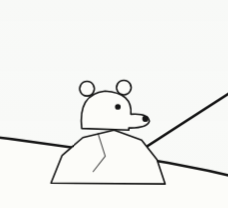
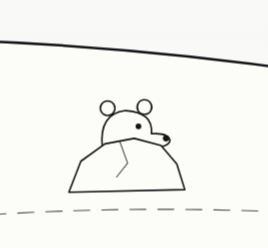
Front page: the sun and moon cross the whole frame, stars after dark and no gulls, glowing lamps on planes, ferry, train and car, brake lights at any hour, no lighthouse light by day, a glow on the dome and the crown, slower clouds, the ferry from the far left, the bear lower and shyer, the campanil

diff --git a/docs/mockup/index.html b/docs/mockup/index.html
@@ -72,8 +72,11 @@ header.top{display:flex;align-items:baseline;justify-content:space-between;gap:1
 @keyframes nav{0%{opacity:1}55%{opacity:.12}}
 .strobe{opacity:0}.dusk .strobe,.night .strobe{animation:strobe 1.6s steps(1) infinite}
 @keyframes strobe{0%{opacity:1}8%{opacity:0}}
-.carlight{opacity:0;transition:opacity .3s}.dusk .carlight,.night .carlight{opacity:.8}
-.tail{opacity:0;transition:opacity .2s}.dusk .tail,.night .tail{opacity:.5}.braking .tail{opacity:1}
+.carlight{opacity:0;transition:opacity .3s}.night .carlight{opacity:1}
+.lamp{filter:url(#lamp)}.beamcone{filter:url(#lampwide)}
+.tail{opacity:0;transition:opacity .2s}.night .tail{opacity:.45}.braking .tail{opacity:1}.night .braking .tail{fill:#FF2A1F !important;filter:url(#lamp)}
+.star{animation:twinkle 8s ease-in-out infinite;opacity:.85}
+@keyframes twinkle{0%,70%,100%{opacity:.85}78%{opacity:.15}86%{opacity:.9}}
 .water{animation:swell 6s ease-in-out infinite alternate}
 .water.b{animation-name:swellb;animation-duration:8.5s;animation-delay:-3s}
 .water.c{animation-name:swellc;animation-duration:11s;animation-delay:-6s}
@@ -98,7 +101,7 @@ header.top{display:flex;align-items:baseline;justify-content:space-between;gap:1
 /* while the view turns, the fog lifts and comes back once it settles: it is most of what the turn has to redraw */
 .stage.fogout .fog{opacity:0 !important}.stage.turning .fog{display:none}
 .beam{transition:opacity .7s}.beam.moving{opacity:0;transition:none}
-#beamlight{mix-blend-mode:var(--blend,multiply);filter:url(#beamblur);opacity:.35;transition:opacity 1.2s}.dusk #beamlight{opacity:.6}.night #beamlight{opacity:.85}
+#beamlight{mix-blend-mode:var(--blend,multiply);filter:url(#beamblur);opacity:0;transition:opacity 1.2s}.dusk #beamlight{opacity:.6}.night #beamlight{opacity:.85}
 .stage:not([data-view="home"]) .fg .hot,.stage[data-view="valley"] .beam{display:none}
 .stage:not([data-view="home"]) .beam path{opacity:.4}
 .halo{fill:var(--gold);stroke:none;opacity:0;transition:opacity .6s}
@@ -225,6 +228,8 @@ header.top{display:flex;align-items:baseline;justify-content:space-between;gap:1
           <feGaussianBlur in="d" stdDeviation="0.7"/>
         </filter>
         <filter id="glow" x="-100%" y="-100%" width="300%" height="300%"><feGaussianBlur stdDeviation="6"/></filter>
+        <filter id="lamp" x="-400%" y="-400%" width="900%" height="900%"><feGaussianBlur in="SourceGraphic" stdDeviation="2.2" result="b"/><feMerge><feMergeNode in="b"/><feMergeNode in="b"/><feMergeNode in="SourceGraphic"/></feMerge></filter>
+        <filter id="lampwide" x="-60%" y="-60%" width="220%" height="220%"><feGaussianBlur stdDeviation="3.5"/></filter>
         <linearGradient id="skygrad" x1="0" y1="0" x2="0" y2="1"><stop id="sky-top" offset="0" stop-color="#BFD3E6" stop-opacity="0"/><stop id="sky-low" offset="1" stop-color="#F2B48C" stop-opacity="0"/></linearGradient>
         <mask id="fogmask"><rect x="0" y="0" width="1600" height="700" fill="white"/><polygon id="cone" points="0,0" fill="black"/></mask>
         <mask id="binoc"><rect x="0" y="0" width="1600" height="700" fill="black"/><circle cx="700" cy="290" r="210" fill="white"/><circle cx="900" cy="290" r="210" fill="white"/></mask>
@@ -456,12 +461,12 @@ header.top{display:flex;align-items:baseline;justify-content:space-between;gap:1
   el("path", {d:"M 0 380 L 0 262 C 60 252, 150 256, 230 270 C 290 281, 332 304, 366 330 C 376 338, 384 343, 394 346 C 380 360, 330 372, 300 380 Z", style:"fill:var(--paper);stroke:none"}, headland);
   el("path", {d:"M 0 262 C 60 252, 150 256, 230 270 C 290 281, 332 304, 366 330 C 376 338, 384 343, 394 346"}, headland);
   { const cp = el("clipPath", {id:"behind-rock", clipPathUnits:"userSpaceOnUse"}, el("defs", {}, $("#L-water"))); el("rect", {x:-14, y:-40, width:28, height:42}, cp); }
-  const bear = el("g", {transform:"translate(214,272) scale(1.4)", "clip-path":"url(#behind-rock)"}, headland), bearHead = el("g", {transform:"translate(0,8)", id:"bearhead"}, bear);
+  const bear = el("g", {transform:"translate(154,294) scale(1.4)", "clip-path":"url(#behind-rock)"}, headland), bearHead = el("g", {transform:"translate(0,8)", id:"bearhead"}, bear);
   el("path", {d:"M -3.2 -5 a 1.4 1.4 0 1 1 0.1 0 M 3.2 -5 a 1.4 1.4 0 1 1 0.1 0", class:"thin", style:"fill:var(--paper)"}, bearHead);
   el("path", {d:"M -4.2 1 Q -4.8 -5.4 0 -5.8 Q 4.8 -5.4 4.4 -1.2 Q 7.4 -1.4 7.6 0.2 Q 7.2 1.6 4 1.4 L 4 1.8 Z", class:"thin", style:"fill:var(--paper)"}, bearHead);
   el("circle", {cx:2, cy:-2.6, r:.55, class:"solid"}, bearHead); el("circle", {cx:7.3, cy:-0.3, r:.6, class:"solid"}, bearHead);
-  el("path", {d:"M 199 276 L 202 268 L 208 263 L 216 261 L 223 263.5 L 227 269 L 229 276 Z", class:"thin", style:"fill:var(--paper)"}, headland);
-  el("path", {d:"M 212 262 L 214 268 L 211 272", class:"hair"}, headland);
+  el("path", {d:"M 139 298 L 142 290 L 148 285 L 156 283 L 163 285.5 L 167 291 L 169 298 Z", class:"thin", style:"fill:var(--paper)"}, headland);
+  el("path", {d:"M 152 284 L 154 290 L 151 294", class:"hair"}, headland);
   el("path", {d:"M 394 346 C 370 352, 340 356, 300 360", class:"hair"}, headland);
   el("path", {d:"M 20 318 C 100 300, 190 298, 280 312", class:"hair", "stroke-dasharray":"8 6"}, headland);
   fog(fogG, [[330, 5, 6],[400, 6, 7],[470, 5, 5]], 11);
@@ -561,6 +566,8 @@ header.top{display:flex;align-items:baseline;justify-content:space-between;gap:1
     tint(L, domeHalf(hv, gy-44, 44, 24, -1), ca).classList.add("nightlight");
     tint(L, domeHalf(hv, gy-44, 44, 24, 1), cb).classList.add("nightlight");
     // the crown: a soft wash and a grid of blocks that breathe out of step
+    el("ellipse", {cx:hv, cy:gy-54, rx:30, ry:20, class:"nightlight", filter:"url(#glow)", style:`fill:${ca};stroke:none;opacity:.5`}, L);
+    el("ellipse", {cx:ox+1057, cy:baseY-276, rx:22, ry:16, class:"nightlight", filter:"url(#glow)", style:"fill:#9FB7C9;stroke:none"}, L);
     tintRect(L, ox+1041, baseY-290, 32, 30, "#9FB7C9").classList.add("nightlight");
     const grid = el("g", {class:"nightlight"}, L); const r = rng(59);
     for (let i=0;i<4;i++) for (let j=0;j<5;j++){ const b = el("rect", {x:ox+1044+i*7, y:baseY-286+j*6, width:5, height:4, class:"crownblock", style:`fill:#9FB7C9;stroke:none`}, grid); b.style.animationDelay = (-r()*9).toFixed(1) + "s"; }
@@ -589,7 +596,7 @@ header.top{display:flex;align-items:baseline;justify-content:space-between;gap:1
     el("path", {d:"M-14 -134 L 14 -134 M 0 -142 L 0 -126", class:"thin"}, hood);                      // the slot
     el("path", {d:"M-64 -118 L 64 -118 L 64 -78 L -64 -78 Z", class:"thin"}, hood);                  // the plate
     const t = el("text", {x:0, y:-88, "text-anchor":"middle", class:"cap"}, hood); t.textContent = "25.5¢";
-    const t2 = el("text", {x:0, y:-46, "text-anchor":"middle"}, hood); t2.textContent = "PER MILLION TOKENS · SOURCES AND METHOD";
+    const t2 = el("text", {x:0, y:-46, "text-anchor":"middle"}, hood); t2.textContent = "PER MILLION TOKENS";
     el("circle", {cx:-236, cy:-112, r:20}, hood); el("path", {d:"M-236 -132 L -236 -92 M-256 -112 L -216 -112", class:"hair"}, hood);
     const k = el("text", {x:-236, y:-78, "text-anchor":"middle"}, hood); k.textContent = "FOCUS";
     const hot = el("g", {class:"hot", id:"hot-coin", tabindex:"0", role:"button", "aria-label":"Insert a coin for sources and method"}, hood);
@@ -605,18 +612,19 @@ header.top{display:flex;align-items:baseline;justify-content:space-between;gap:1
     const L = el("g", {"clip-path":"url(#eye-l)"}, g), R = el("g", {"clip-path":"url(#eye-r)"}, g);
     // left: the hills behind, the campus on its slope, its campanile over the trees, the bay in front
     // the hills behind: a ridge crowned with a ragged line of trees, a raised stand of them with a mast in it, then a sharp drop to the lower ridge
-    { const rr = rng(83);
+    { const rr = rng(83), Lm = el("g", {transform:"translate(1300,0) scale(-1,1)"}, L);   // mirrored: the crest and its trees to the right, the cut to the left
       let d = "M 480 400 L 480 304 C 500 300, 516 296, 530 292", x = 530;
       const crown = u => u < 668 ? 292 - (u-530)/138*54 : 238 + (u-668)*0.06;             // the canopy's line: rising to its crest, then nearly level
       while (x < 700){ const w = 5 + rr()*13, top = Math.min(crown(x), crown(x+w)) - 2 - rr()*7; d += ` Q ${(x+w*.5).toFixed(1)} ${top.toFixed(1)} ${(x+w).toFixed(1)} ${(crown(x+w) + rr()*2).toFixed(1)}`; x += w; }
       d += ` Q ${(x+3).toFixed(1)} 250 ${(x+2).toFixed(1)} 262 Q ${(x+4).toFixed(1)} 270 ${(x+9).toFixed(1)} 273`; x += 9;   // the steep cut where the trees end
       while (x < 820){ const w = 5 + rr()*9, y = 273 + (x-710)*0.05; d += ` Q ${(x+w/2).toFixed(1)} ${(y - 2 - rr()*4).toFixed(1)} ${(x+w).toFixed(1)} ${y.toFixed(1)}`; x += w; }
-      el("path", {d: d + " L 820 400 Z", class:"thin", style:"fill:var(--paper)"}, L);
+      el("path", {d: d + " L 820 400 Z", class:"thin", style:"fill:var(--paper)"}, Lm);
       // the grass below the trees: the hill's own shoulder, and a pale fold lower down
-      el("path", {d:"M 500 322 C 570 306, 640 298, 706 296 C 750 296, 790 300, 820 304", class:"hair"}, L);
-      el("path", {d:"M 540 342 C 600 332, 670 330, 740 336", class:"hair"}, L);
+      el("path", {d:"M 500 322 C 570 306, 640 298, 706 296 C 750 296, 790 300, 820 304", class:"hair"}, Lm);
+      el("path", {d:"M 540 342 C 600 332, 670 330, 740 336", class:"hair"}, Lm);
     }
     box(L, 616, 352, 56, 42, true); box(L, 706, 360, 70, 34, true); box(L, 530, 370, 30, 24, false);
+    el("path", {d:"M 579 394 L 579 244 L 576 244 L 590 222 L 604 244 L 601 244 L 601 394 Z", style:"fill:var(--paper);stroke:none"}, L);
     campanile(L, 590, 394, 150);
     tintRect(L, 579, 245, 22, 149, "var(--cream)");
     for (const x of [506, 684, 782]) el("path", {d:`M${x} 396 q 0 -16 10 -19 q 10 3 10 19 z`, class:"thin", style:"fill:var(--paper)"}, L);
@@ -627,7 +635,8 @@ header.top{display:flex;align-items:baseline;justify-content:space-between;gap:1
     { const train = el("g", {class:"bart"}, L);
       for (let i=0;i<3;i++){ const x = i*58, nose = i === 2;
         el("path", {d: nose ? `M ${x} 417 L ${x} 405 L ${x+42} 405 Q ${x+54} 406 ${x+56} 417 Z` : `M ${x} 417 L ${x} 405 L ${x+56} 405 L ${x+56} 417 Z`, class:"thin", style:"fill:var(--paper)"}, train);
-        for (let j=0; j<5; j++) el("path", {d:`M ${x+5+j*9} 410 l 5 0`, class:"hair"}, train); } }
+        for (let j=0; j<5; j++){ el("path", {d:`M ${x+5+j*9} 410 l 5 0`, class:"hair"}, train); el("rect", {x:x+5+j*9, y:408.5, width:5, height:3, class:"carlight", style:"fill:#F8DC8C;stroke:none"}, train); }
+        if (nose){ el("path", {d:`M ${x+56} 413 L ${x+86} 407 L ${x+86} 419 Z`, class:"carlight beamcone", style:"fill:#F6DE92;stroke:none;fill-opacity:.5"}, train); el("circle", {cx:x+55, cy:413, r:1.6, class:"carlight lamp", style:"fill:#FFF6D2;stroke:none"}, train); } } }
     for (let i=0;i<2;i++){ const y = 452 + i*14; el("path", {d:`M ${510 + i*10} ${y} q 40 -3 80 0 M ${660 - i*14} ${y+5} q 50 -3 100 0`, class:"hair"}, L); }
     // right: the foothills and the dish on them, the tower over the arcaded quad, palms along the front
     el("path", {d:"M 780 262 C 850 236, 930 230, 1000 244 C 1050 254, 1090 256, 1130 262 L 1130 400 L 780 400 Z", class:"thin", style:"fill:var(--paper)"}, R);
@@ -893,7 +902,8 @@ header.top{display:flex;align-items:baseline;justify-content:space-between;gap:1
   function moonPhase(d){ const age = ((d.getTime() - Date.UTC(2000,0,6,18,14))/86400e3) % 29.530588; return (age < 0 ? age + 29.530588 : age)/29.530588; }
   // the panorama's headings: the left edge looks a little west of south, the right edge a little north of east
   // the frame looks from a little north of east round to the south-east: the sun rises over the Gate and the bay
-  function xOfAzimuth(az){ return (az - 50)/110 * W; }
+  // drawn, not surveyed: the sky is widened so the whole day and night cross the frame, east at the left edge, west at the right
+  function xOfAzimuth(az){ const a = ((az % 360) + 360) % 360; return (Math.max(50, Math.min(310, a)) - 50)/260 * W; }
   function yOfAltitude(alt){ return 340 - Math.max(-12, Math.min(70, alt))*4.6; }
   const HEADING = { home:105, city:125, bridge:100, valley:150 };
 
@@ -919,7 +929,7 @@ header.top{display:flex;align-items:baseline;justify-content:space-between;gap:1
     document.documentElement.style.setProperty("--dir", lateral < 0 ? "normal" : "reverse");
     document.documentElement.style.setProperty("--drift", Math.max(12, 160 / Math.max(Math.abs(lateral), 3)) + "s");
     // clouds cross the whole frame; their place is set by the clock, so redrawing the sky never moves them
-    const cross = 6*Math.max(60, 900 / Math.max(Math.abs(lateral), 3));
+    const cross = 20*Math.max(60, 900 / Math.max(Math.abs(lateral), 3));
     document.documentElement.style.setProperty("--cdrift", cross + "s");
     document.documentElement.style.setProperty("--rfall", (o.wind_kmh > 40 ? .7 : 1.1) + "s");
     document.querySelectorAll(".fog").forEach(g=>{ g.style.opacity = w.fog; });
@@ -929,7 +939,7 @@ header.top{display:flex;align-items:baseline;justify-content:space-between;gap:1
     for (let i=0;i<w.clouds*3;i++){ const y = 110 + r()*90, wd = 80 + r()*140, front = !w.streak && i % 4 === 3;
       const d = w.streak ? `M0 ${y} q ${wd*.5} -6 ${wd} 0 M20 ${y+8} q ${wd*.3} -4 ${wd*.6} 0` : `M0 ${y} q ${wd*.2} -18 ${wd*.45} -6 q ${wd*.15} -16 ${wd*.35} -2 q ${wd*.2} -4 ${wd*.2} 8 Z`;
       const c = el("path", {d, class:"cloud"}, front ? skyFront : sky); if (!w.streak) c.style.fill = "var(--paper)";
-      c.style.animationDelay = (-(((clock/cross) + r()) % 1)*cross).toFixed(1) + "s"; }
+      const own = cross*(.8 + r()*.4); c.style.animationDuration = own.toFixed(0) + "s"; c.style.animationDelay = (-(((clock/own) + r()) % 1)*own).toFixed(1) + "s"; }
     if (w.band) for (let y=96; y<140; y+=18) el("path", {d:`M 0 ${y} L ${W} ${y}`, class:"hair"}, sky);
     const rainN = [0, 220, 560][Math.max(w.rain, rainLevel)];
     if (rainN){ const slant = -lateral * 0.35; const g = el("g", {class:"rain"}, sky);
@@ -948,8 +958,12 @@ header.top{display:flex;align-items:baseline;justify-content:space-between;gap:1
       el("path", {d:`M ${x} ${y} m -22 0 a 22 22 0 1 0 44 0 a 22 22 0 1 0 -44 0 M ${x} ${y-34} l 0 -10 M ${x} ${y+34} l 0 10 M ${x-34} ${y} l -10 0 M ${x+34} ${y} l 10 0`, class:"thin sun"}, sky);
       if (key === "clear") tint($("#washes"), `M ${x-24} ${y} a 24 24 0 1 0 48 0 a 24 24 0 1 0 -48 0 Z`, "var(--gold)").classList.add("sunwash");
     }
+    if (night){ const rs = rng(Math.floor(Date.now()/86400e3)); const n = 4 + Math.floor(rs()*2);
+      for (let i=0;i<n;i++){ const x = 480 + rs()*1080, y = 40 + rs()*120, sz = 2 + rs()*1.6;
+        const st = el("path", {d:`M ${x} ${y-sz*2} L ${x+sz*.45} ${y-sz*.45} L ${x+sz*2} ${y} L ${x+sz*.45} ${y+sz*.45} L ${x} ${y+sz*2} L ${x-sz*.45} ${y+sz*.45} L ${x-sz*2} ${y} L ${x-sz*.45} ${y-sz*.45} Z`, class:"star", style:"fill:var(--ink);stroke:none"}, sky);
+        st.style.animationDuration = (5 + rs()*7).toFixed(1) + "s"; st.style.animationDelay = (-rs()*10).toFixed(1) + "s"; } }
     // the moon is drawn at its phase and where it is; on a night it has set, the drawing keeps it low over the horizon anyway
-    if ((moon.alt > 0 || night) && (night || sun.alt < 4) && w.fog < .9 && !w.band){
+    if ((moon.alt > 0 || night) && (night || sun.alt < 4) && w.fog < .9){
       const x = xOfAzimuth(moon.alt > 0 ? moon.az : (moon.az + 180) % 360), y = yOfAltitude(Math.max(moon.alt, night ? 16 : 0)), g = el("g", {class:"moon thin"}, sky);
       // the lit side: a lens between the limb and the terminator, phase 0 new, .5 full. After dark the lit
       // side is drawn in ink, which is white then; by day the disc is shaded and the lit side is left paper.
@@ -987,7 +1001,7 @@ header.top{display:flex;align-items:baseline;justify-content:space-between;gap:1
   function tween(ms, step, done){ const t0 = performance.now(); (function f(t){ const k = Math.min(1, (t - t0)/ms); step(k); if (k < 1) requestAnimationFrame(f); else if (done) done(); })(t0); }
   let taxiUntil = 0, bearUp = false;        // one robotaxi on the road at a time; one bear
   const EVENTS = {
-    gull(){ // one to three, each its own size, pace, bob and wingbeat
+    gull(){ if (stage.classList.contains("night")) return; // one to three, each its own size, pace, bob and wingbeat
       const n = 1 + Math.floor(Math.random()*Math.random()*3), ltr = Math.random() < .5, y0 = 130 + Math.random()*140, dur = 12000 + Math.random()*10000;
       for (let j=0;j<n;j++){ const g = el("g", {class:"thin"}, life), sc = .75 + Math.random()*.5, amp = 4 + Math.random()*7, fq = 6 + Math.random()*7, ph = Math.random()*6, dx = j*(28 + Math.random()*20), dy = (Math.random()-.5)*30;
         const flap = ["M-10 0 q 10 -9 20 0 M10 0 q 10 -9 20 0", "M-10 0 q 10 -2 20 0 M10 0 q 10 -2 20 0"];
@@ -1014,9 +1028,12 @@ header.top{display:flex;align-items:baseline;justify-content:space-between;gap:1
       gear.style.opacity = (kind === "landing" || kind === "takeoff") ? 1 : 0;
       // after dusk: red at the near wingtip, green showing past the fuselage, a white strobe on the fin
       const tip = kind === "jet" ? [-10, 5.5] : [-15, 8];
-      const red = el("circle", {cx:tip[0], cy:tip[1], r:2.4, class:"navlight", style:"fill:#E0443A;stroke:none"}, ship);
-      const green = el("circle", {cx:-6, cy:-3.6, r:2.2, class:"navlight", style:"fill:#46C271;stroke:none"}, ship);
-      const strobe = el("circle", {cx: kind === "jet" ? -24 : -35, cy: kind === "jet" ? -12 : -16, r:2, class:"strobe", style:"fill:#FFFFFF;stroke:none"}, ship);
+      const red = el("circle", {cx:tip[0], cy:tip[1], r:2.4, class:"navlight lamp", style:"fill:#FF3B30;stroke:none"}, ship);
+      const green = el("circle", {cx:-6, cy:-3.6, r:2.2, class:"navlight lamp", style:"fill:#4DDB7E;stroke:none"}, ship);
+      const strobe = el("circle", {cx: kind === "jet" ? -24 : -35, cy: kind === "jet" ? -12 : -16, r:2, class:"strobe lamp", style:"fill:#FFFFFF;stroke:none"}, ship);
+      const nose = kind === "jet" ? [24, 0] : [35.5, 0];
+      el("path", {d:`M ${nose[0]} ${nose[1]} L ${nose[0]+34} ${nose[1]-7} L ${nose[0]+34} ${nose[1]+9} Z`, class:"carlight beamcone", style:"fill:#F6E7B0;stroke:none;fill-opacity:.45"}, ship);
+      el("circle", {cx:nose[0], cy:nose[1], r:2, class:"carlight lamp", style:"fill:#FFF8DC;stroke:none"}, ship);
       const beat = (.9 + Math.random()*.9).toFixed(2) + "s"; red.style.setProperty("--nav", beat); green.style.setProperty("--nav", beat); green.style.animationDelay = "-" + (Math.random()).toFixed(2) + "s";
       // where it rises from, or sinks behind: the city, which sits differently in each view
       const behind = { home:[1010, 262], city:[780, 300], bridge:[1250, 300], valley:[800, 300] }[view];
@@ -1075,9 +1092,9 @@ header.top{display:flex;align-items:baseline;justify-content:space-between;gap:1
       const car = el("g", {transform:`scale(${S})`}, g);
       el("path", {d:"M-16 0 L 16 0 L 16 -8 L 10 -14 L -8 -14 L -16 -8 Z M-2 -14 L -2 -18 a 4 3 0 1 1 8 0 L 6 -14 Z", class:"thin", style:"fill:var(--paper)"}, car);
       el("path", {d:"M-10 0 a 3 3 0 1 0 6 0 a 3 3 0 1 0 -6 0 M4 0 a 3 3 0 1 0 6 0 a 3 3 0 1 0 -6 0 M-8 -14 L -6 -8 M 10 -14 L 8 -8", class:"thin", style:"fill:var(--paper)"}, car);
-      el("path", {d:"M -16 -6 L -40 -11 L -40 -1 Z", class:"carlight", style:"fill:#F4D98A;stroke:none;opacity:.8"}, car);
-      el("circle", {cx:-15.5, cy:-5.5, r:1.3, class:"carlight", style:"fill:#FFF3C4;stroke:none"}, car);
-      el("rect", {x:14, y:-8, width:2.2, height:3.2, class:"tail", style:"fill:#E0443A;stroke:none"}, car);
+      el("path", {d:"M -16 -6 L -46 -13 L -46 0 Z", class:"carlight beamcone", style:"fill:#F6DE92;stroke:none;fill-opacity:.55"}, car);
+      el("circle", {cx:-15.5, cy:-5.5, r:1.5, class:"carlight lamp", style:"fill:#FFF6D2;stroke:none"}, car);
+      el("rect", {x:14, y:-8.2, width:2.4, height:3.6, class:"tail", style:"fill:#D8352B;stroke:none"}, car);
       const dome = el("circle", {cx:2, cy:-18, r:1.2, class:"solid"}, car); let d = 0; const spin = setInterval(()=>{ dome.setAttribute("cx", 2 + Math.cos(d+=.6)*3); }, 80);
       // the water, from the drawn hydrant's cap, pouring toward the car
       const spout = el("g", {class:"thin", transform:`translate(${hx},${hy}) scale(${-k},${k})`}, life); spout.style.opacity = 0;
@@ -1088,14 +1105,18 @@ header.top{display:flex;align-items:baseline;justify-content:space-between;gap:1
     bear(){ if (stage.dataset.view !== "bridge" || bearUp) return EVENTS.gull(); bearUp = true;
       // up over the rock, a look one way and the other, and down again
       const h = $("#bearhead"); const at = (y, fx) => h.setAttribute("transform", `translate(0,${y.toFixed(2)}) scale(${fx},1)`);
-      tween(1800, k=>at(8 - 17.5*(1-(1-k)**2), 1), ()=>{ setTimeout(()=>{ at(-9.5, -1); setTimeout(()=>{ at(-9.5, 1);
-        setTimeout(()=>tween(1400, k=>at(-9.5 + 17.5*k*k, 1), ()=>{ bearUp = false; }), 1600); }, 1400); }, 1500); }); },
+      tween(1800, k=>at(8 - 15*(1-(1-k)**2), 1), ()=>{ setTimeout(()=>{ at(-7, -1); setTimeout(()=>{ at(-7, 1);
+        setTimeout(()=>tween(1400, k=>at(-7 + 15*k*k, 1), ()=>{ bearUp = false; }), 1600); }, 1400); }, 1500); }); },
     gust(){ stage.classList.add("gust"); document.querySelectorAll(".gull").forEach(p=>{ p.style.transition = "transform .8s"; p.style.transform = "rotate(-22deg)"; });
       setTimeout(()=>{ stage.classList.remove("gust"); }, 5000); },
     ferry(){ if (stage.dataset.view !== "bridge") return EVENTS.gull();
-      const g = el("g", {class:"thin"}, life); el("path", {d:"M0 0 l -30 0 l 6 10 l 48 0 l 6 -10 z M-14 0 l 0 -10 l 22 0 l 0 10 M-4 -10 l 0 -9"}, g);
-      const y = 530 + Math.random()*50, dur = 28000 + Math.random()*14000, bob = 1 + Math.random()*1.5;
-      tween(dur, k=>{ g.setAttribute("transform", `translate(${700 + k*1000},${y + Math.sin(k*20)*bob})`); }, ()=>g.remove()); },
+      const g = el("g", {class:"thin"}, life); el("path", {d:"M0 0 l -30 0 l 6 10 l 48 0 l 6 -10 z M-14 0 l 0 -10 l 22 0 l 0 10 M-4 -10 l 0 -9"}, g, ).style.fill = "var(--paper)";
+      for (let i=0;i<3;i++) el("rect", {x:-11 + i*6, y:-7, width:3, height:3, class:"carlight lamp", style:"fill:#F8DC8C;stroke:none"}, g);
+      el("circle", {cx:-4, cy:-19, r:1.4, class:"carlight lamp", style:"fill:#FFFFFF;stroke:none"}, g);
+      el("path", {d:"M 24 3 L 52 -3 L 52 9 Z", class:"carlight beamcone", style:"fill:#F6DE92;stroke:none;fill-opacity:.4"}, g);
+      el("circle", {cx:23, cy:3, r:1.4, class:"carlight lamp", style:"fill:#FFF6D2;stroke:none"}, g);
+      const y = 530 + Math.random()*50, dur = 44000 + Math.random()*16000, bob = 1 + Math.random()*1.5;
+      tween(dur, k=>{ g.setAttribute("transform", `translate(${-80 + k*1780},${y + Math.sin(k*28)*bob})`); }, ()=>g.remove()); },
   };
   const WEIGHTS = [["gull",6],["plane",4],["gust",2],["ferry",1],["rocket",2],["robotaxi",1],["bear",2]];
   const PLANE_KIND = params.get("plane");
